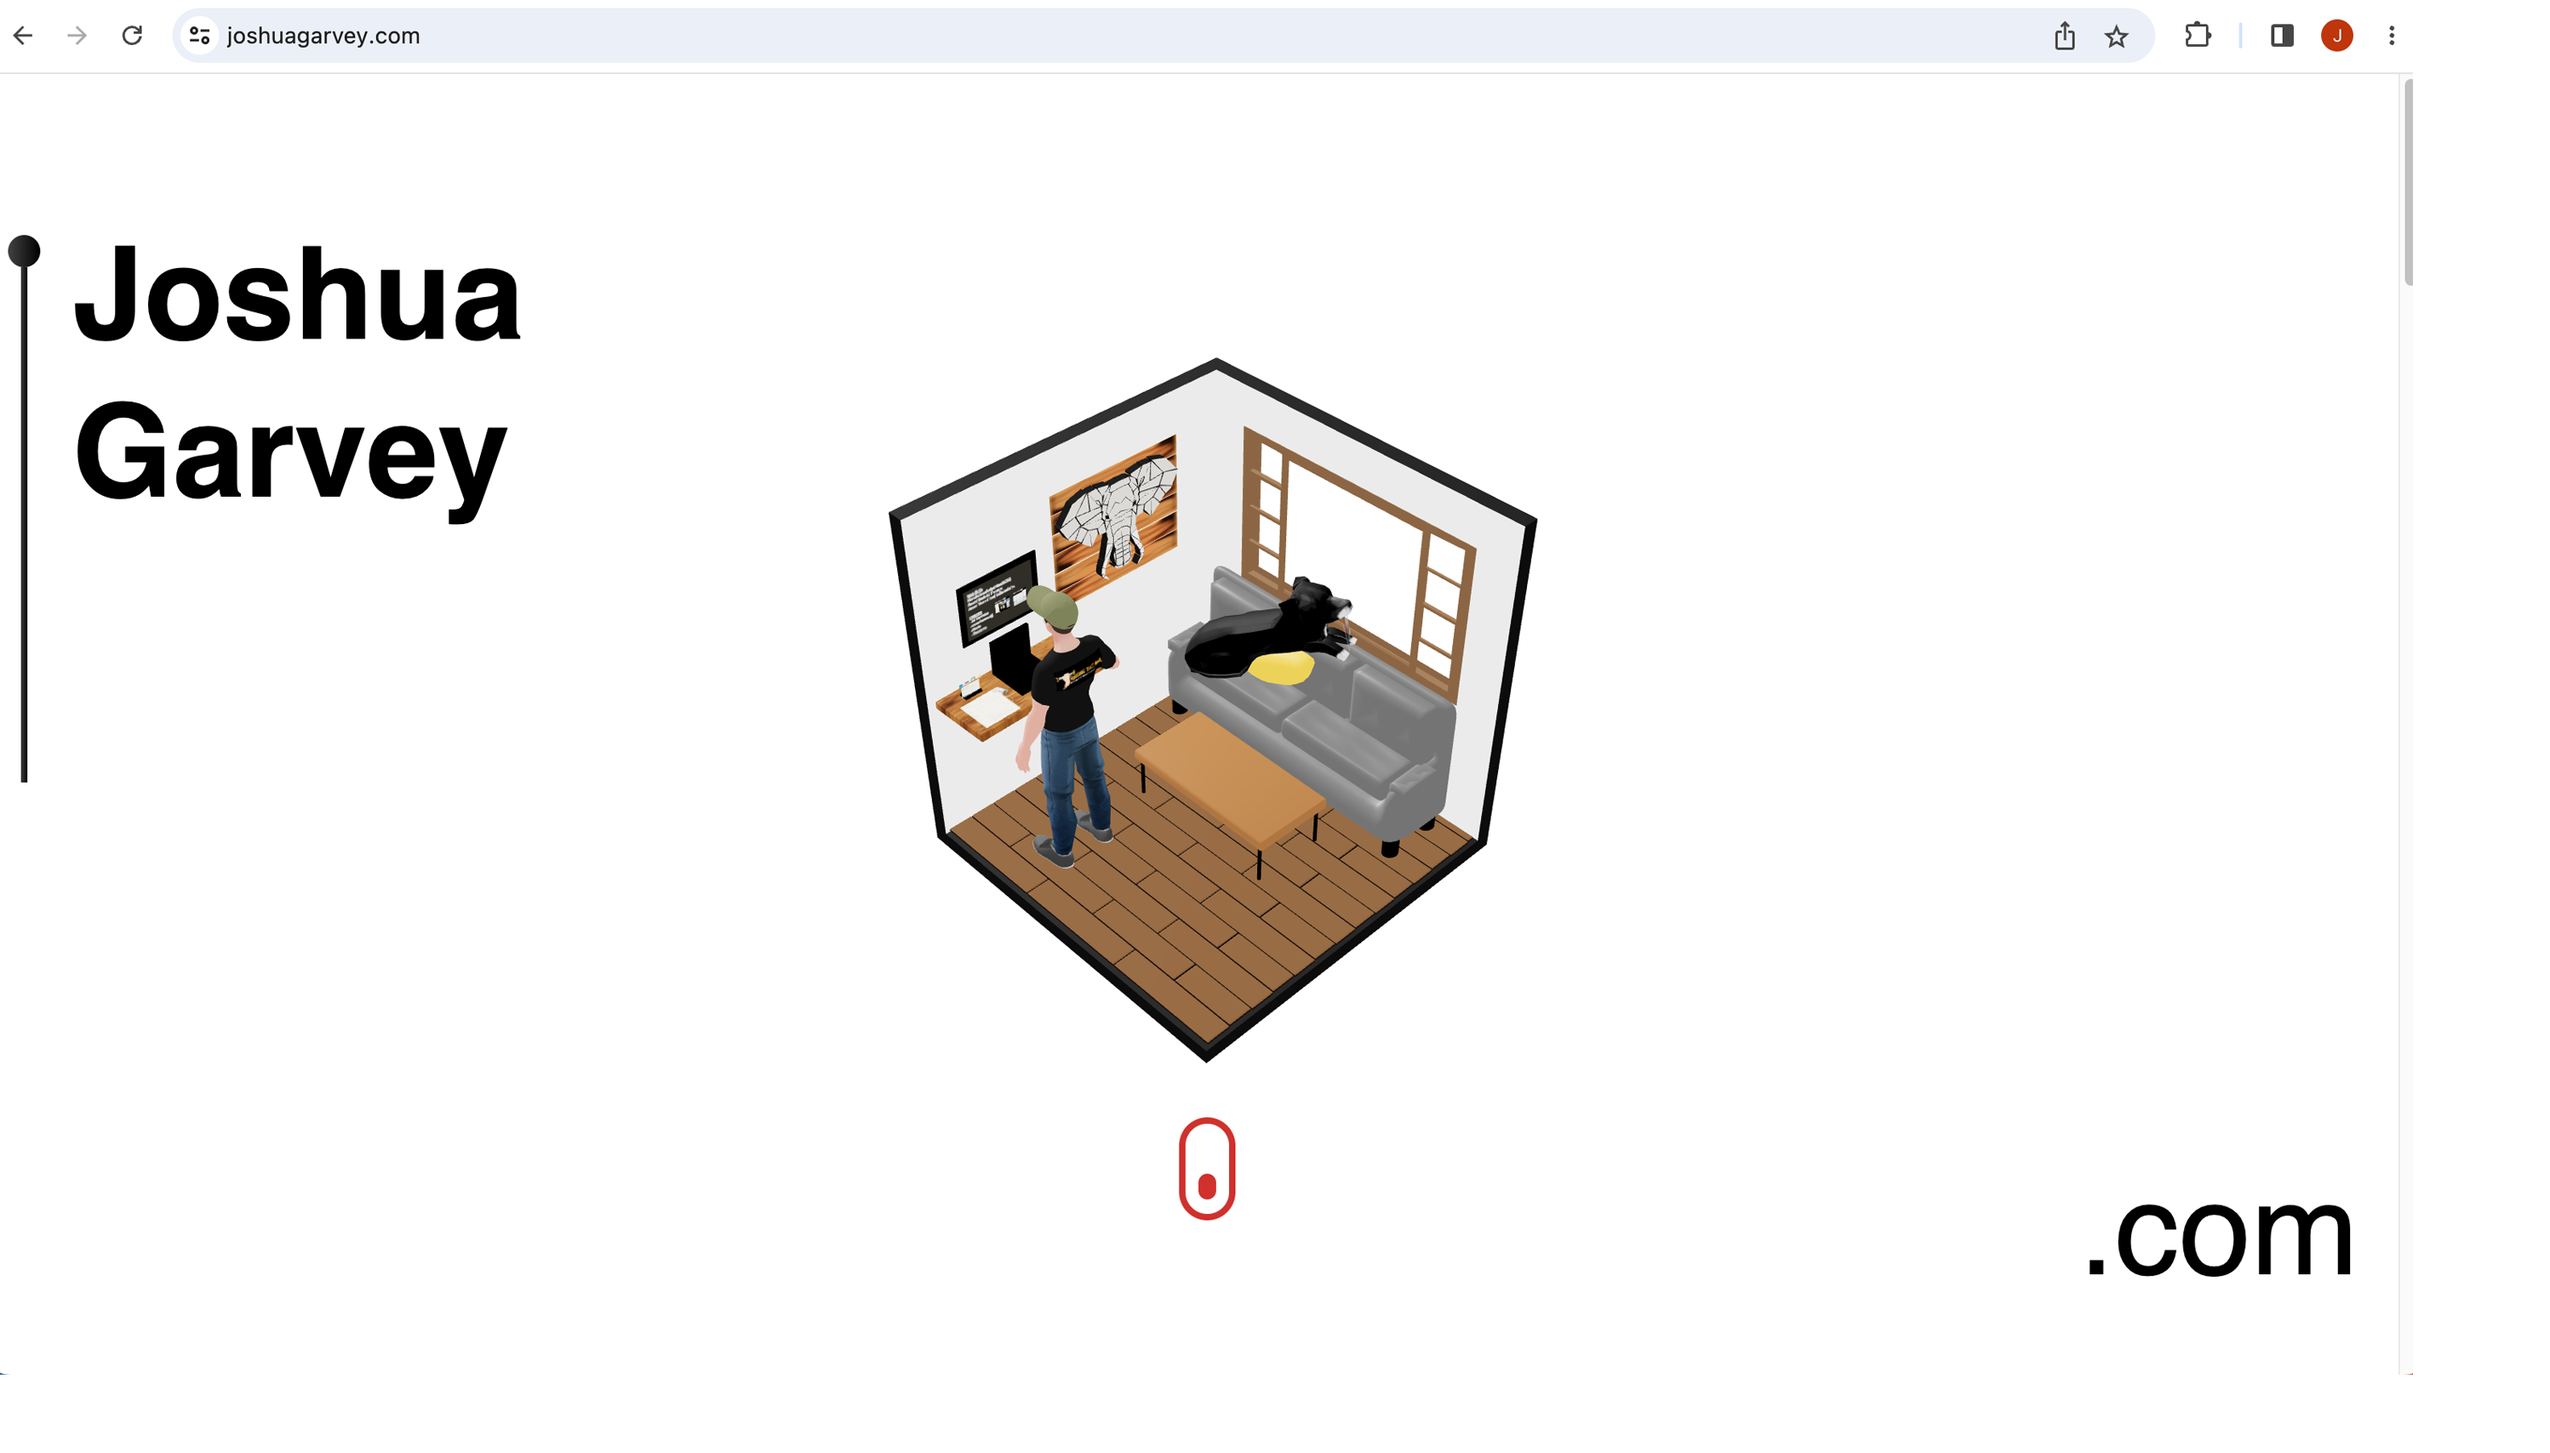
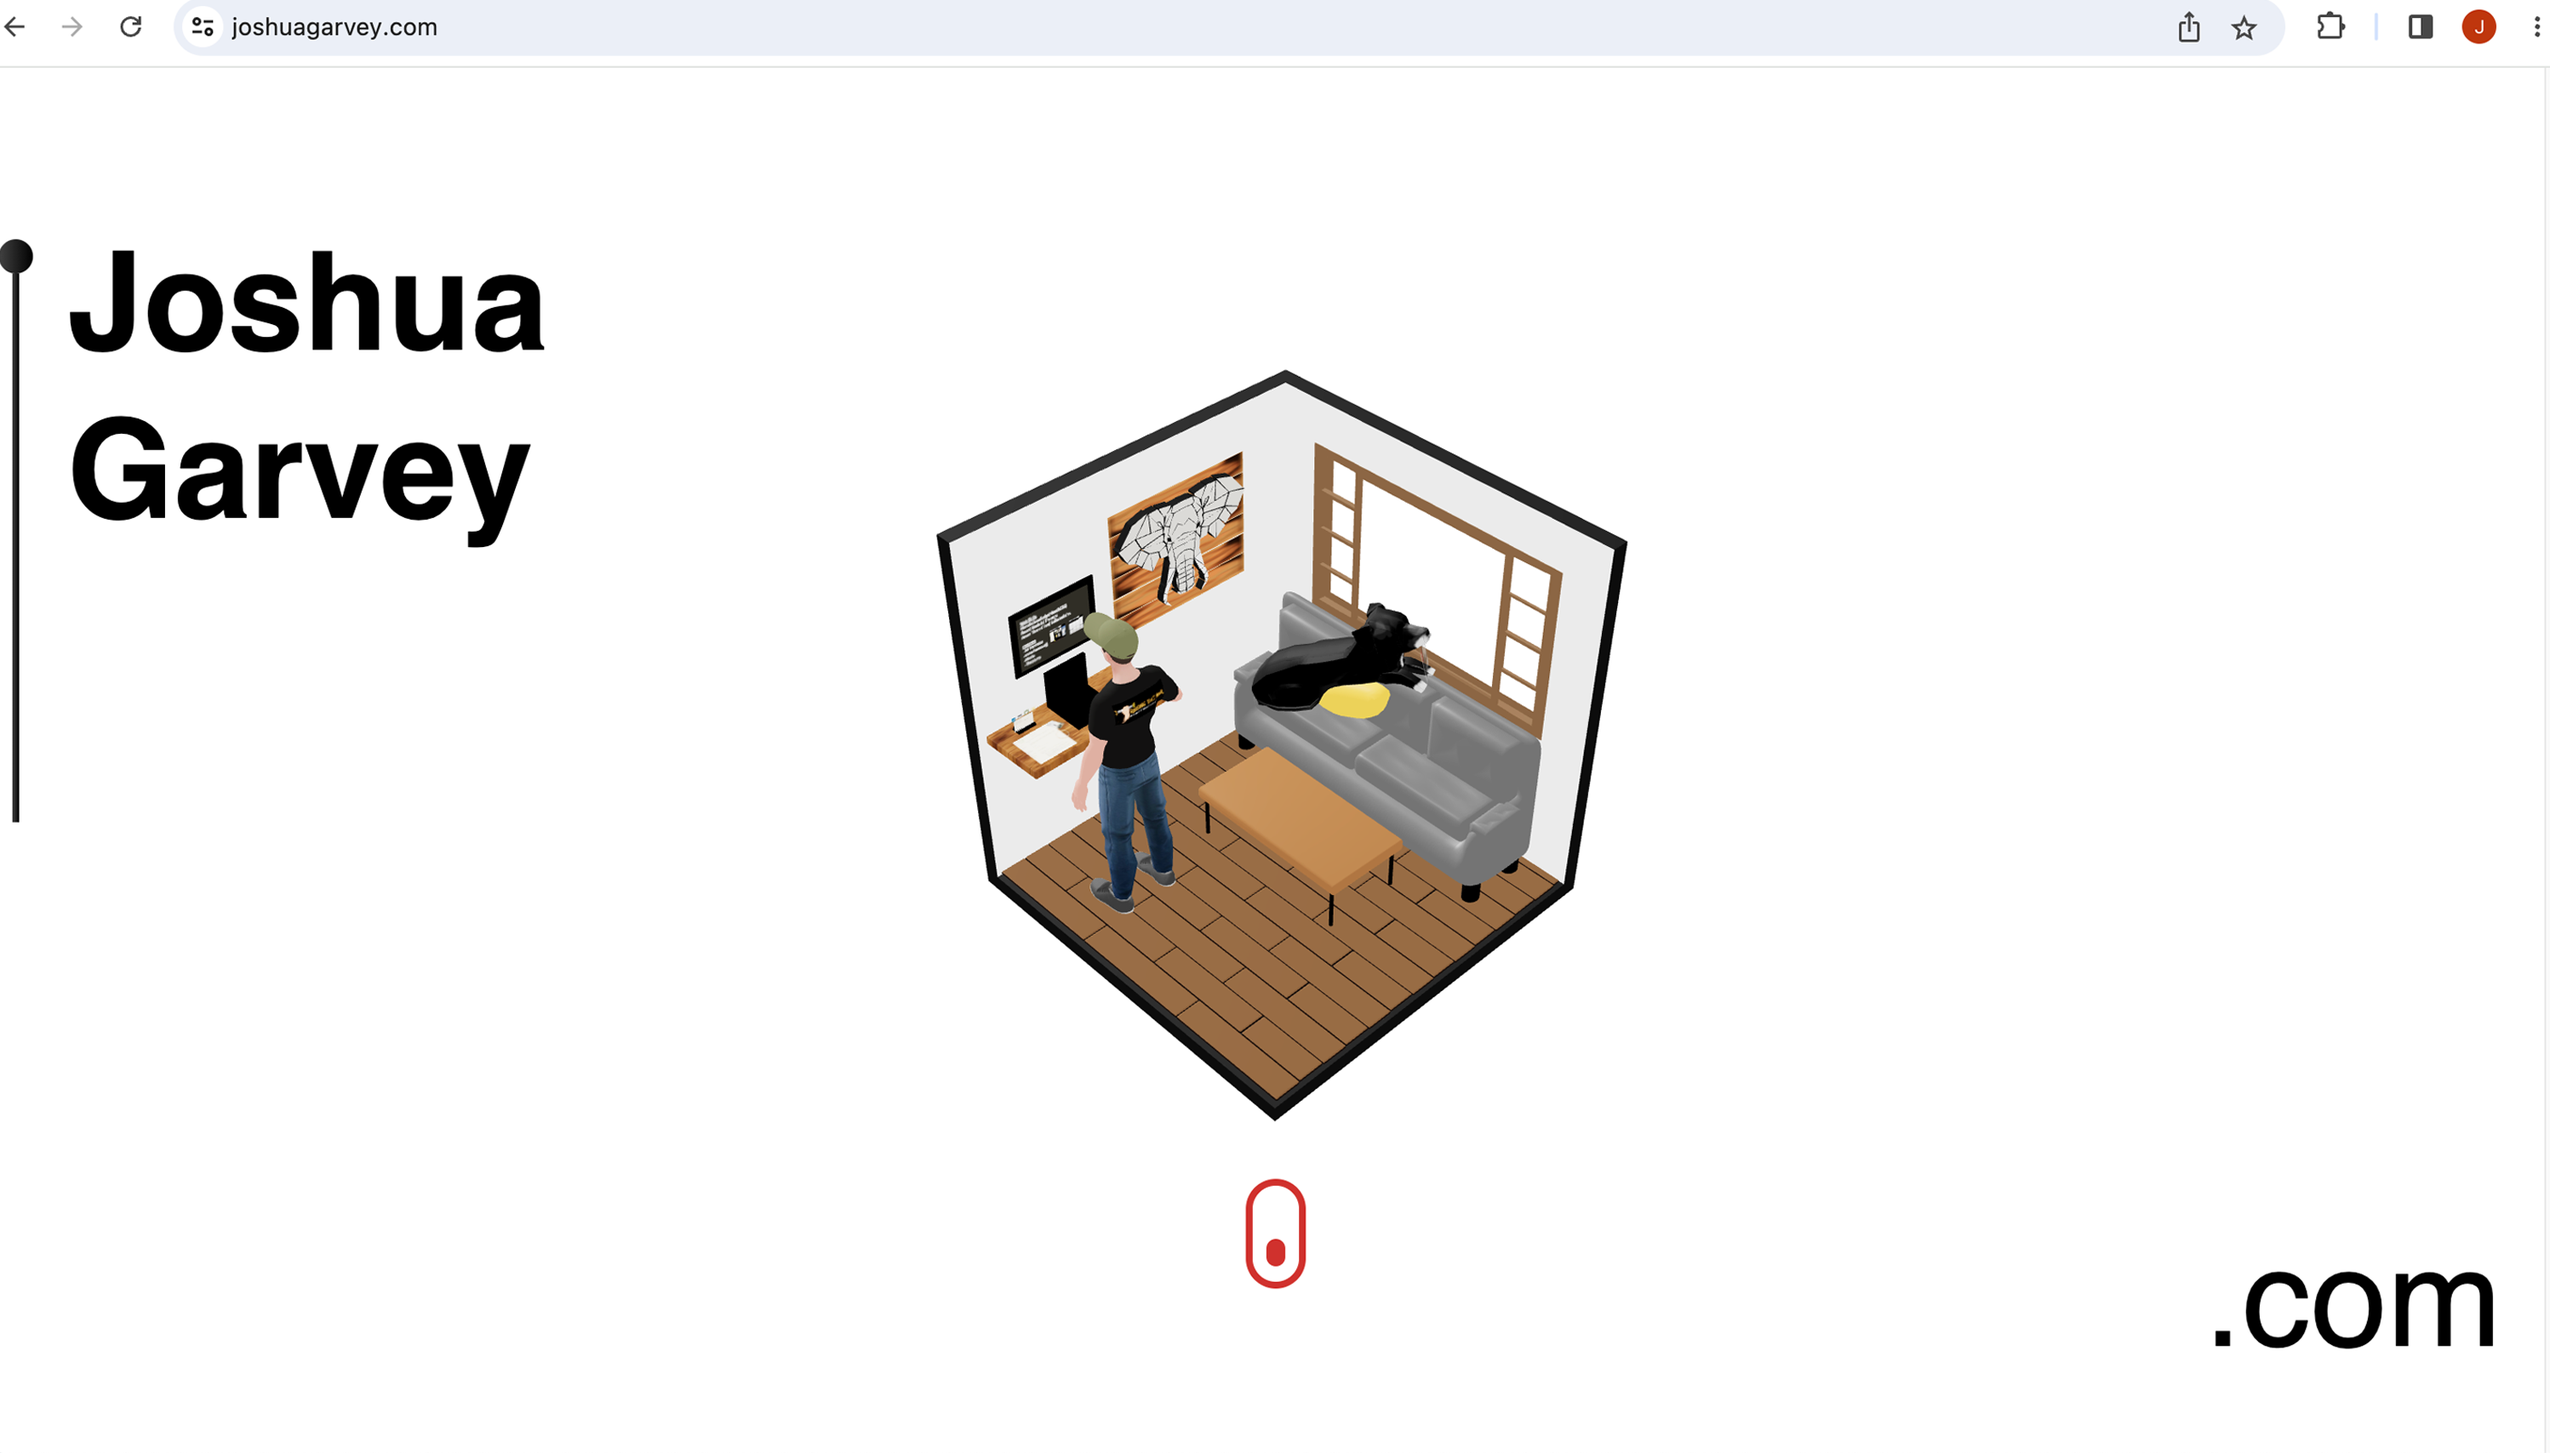
sun

diff --git a/src/components/Works.jsx b/src/components/Works.jsx
@@ -9,7 +9,7 @@ import { SectionWrapper } from "../hoc";
 import { projects } from "../constants";
 import { fadeIn, textVariant } from "../utils/motion";
 
-const ProjectCard = ({ index, name, description, tags, image, source_code_link }) => {
+const ProjectCard = ({ index, name, preview, description, tags, image, source_code_link }) => {
 	return (
 		<motion.div variants={fadeIn("up", "spring", index * 0.5, 0.75)}>
 			<Tilt
@@ -21,10 +21,13 @@ const ProjectCard = ({ index, name, description, tags, image, source_code_link }
 				className="bg-[#000000] p-5 rounded-2x1 sm:w-[360px] w-full"
 			>
 				<div className="relative w-full h-[230px]">
-					<div className="mt-5">
-						<h3 className="text-white font-bold text-[24px]">{name}</h3>
+					<div className="mt-3">
+						<h3 className="text-white font-bold text-[26px]">{name}</h3>
+						<p className="mt-4 ml-4 text-secondaryred text-[16px]">{preview}</p>
 					</div>
-					<img src={image} alt={name} className="w-full h-full object-scale-down rounded-2xl" />
+					<div>
+						<img src={image} alt={name} className="w-full h-full object-scale-down rounded-2xl border-solid border-secondaryred border-4 mt-6" />
+					</div>
 
 					<div className="absolute inset-0 flex justify-end m-3 card-img_hover">
 						<div onClick={() => window.open(source_code_link, "_blank")} className="black-gradient w-10 h-10 rounded-full flex justify-center items-center cursor-pointer">
@@ -32,8 +35,8 @@ const ProjectCard = ({ index, name, description, tags, image, source_code_link }
 						</div>
 					</div>
 				</div>
-				<div className="mt-5">
-					<p className="mt-2 text-secondary text-[14px]">{description}</p>
+				<div className="mt-20">
+					<p className="mt-4 text-secondary text-[14px]">{description}</p>
 				</div>
 				<div className="mt-4 flex flex-wrap gap-2">
 					{tags.map((tag) => (
@@ -50,10 +53,12 @@ const ProjectCard = ({ index, name, description, tags, image, source_code_link }
 const Works = () => {
 	return (
 		<>
-			<motion.div variants={textVariant()}>
-				{/* <p className={styles.sectionSubText}>My Projects</p> */}
-				<h2 className={styles.sectionHeadText}>Projects.</h2>
-			</motion.div>
+			<div className="mt-0">
+				<motion.div variants={textVariant()}>
+					{/* <p className={styles.sectionSubText}>My Projects</p> */}
+					<h2 className={styles.sectionHeadText}>Projects.</h2>
+				</motion.div>
+			</div>
 
 			{/* <div className="w-full flex">
 				<motion.p variants={fadeIn("", "", 0.1, 1)} className="mt-3 text-secondary text-[17px] max-w-3xl leading-[30px]">
@@ -62,7 +67,7 @@ const Works = () => {
 				</motion.p>
 			</div> */}
 
-			<div className="mt-20 flex flex-wrap gap-7">
+			<div className="mt-10 flex flex-wrap gap-7">
 				{projects.map((project, index) => (
 					<ProjectCard key={`project-${index}`} index={index} {...project} />
 				))}

diff --git a/src/constants/index.js b/src/constants/index.js
@@ -158,6 +158,7 @@ export const navLinks = [
 const projects = [
 	{
 		name: "JoshuaGarvey.com",
+		preview: "//Homebase for my internet presense",
 		description: "A 3D immersive scene where a camera is created and follows linear curves when user scrolls down. Wanted a simple design similar to a business card that was the home base to my contact information while also adding a complex user experience to demonstrate capibalities with web development",
 		tags: [
 			{
@@ -174,15 +175,16 @@ const projects = [
 			},
 		],
 		image: joshgarvey1,
-		source_code_link: "https://github.com/",
+		source_code_link: "https://github.com/Jgar514/JoshandEllie/blob/main/README.md",
 	},
 	{
-		name: "Mendix",
+		name: "removeSnow()",
+		preview: "//Snow Plow Company software",
 		description: "Web application that enables users to search for job openings, view estimated salary ranges for positions, and locate available jobs based on their current location.",
 		tags: [
 			{
 				name: "react",
-				color: "blue-text-gradient",
+				color: "white",
 			},
 			{
 				name: "restapi",
@@ -194,10 +196,11 @@ const projects = [
 			},
 		],
 		image: mendix,
-		source_code_link: "https://github.com/",
+		source_code_link: "https://github.com/Jgar514/removeSnow",
 	},
 	{
 		name: "MODA",
+		preview: "//Mom and Dad software",
 		description: "A dual theme enterprise software application for parents to stay on top of raising their kids. ",
 		tags: [
 			{

diff --git a/src/components/Hero.jsx b/src/components/Hero.jsx
@@ -29,7 +29,7 @@ const Hero = () => {
 			{/* </div> */}
 			<div className="absolute xs:bottom-10 bottom-10 w-full flex justify-center items-center">
 				<a href="#about">
-					<div className="w-[35px] h-[64px] rounded-3xl border-4 border-secondary flex justify-center items-start p-2">
+					<div className="w-[35px] h-[64px] rounded-3xl border-4 border-white flex justify-center items-start p-2">
 						<motion.div
 							animate={{
 								y: [0, 24, 0],
@@ -39,7 +39,7 @@ const Hero = () => {
 								repeat: Infinity,
 								repeatType: "loop",
 							}}
-							className="w-3 h-3 rounded-full bg-secondary mb-1"
+							className="w-3 h-3 rounded-full bg-white mb-1"
 						/>
 					</div>
 				</a>

diff --git a/src/components/Navbar.jsx b/src/components/Navbar.jsx
@@ -3,7 +3,7 @@ import { Link } from "react-router-dom";
 
 import { styles } from "../styles";
 import { navLinks } from "../constants";
-import { logo, menu, close } from "../assets";
+import { logo1, menu, close } from "../assets";
 import { linkClasses } from "@mui/material";
 
 const Navbar = () => {
@@ -21,7 +21,7 @@ const Navbar = () => {
 						window.scrollTo(0, 0);
 					}}
 				>
-					<img src={logo} alt="logo" className="w-9 h-9 object-fill" />
+					<img src={logo1} alt="logo" className="w-9 h-9 object-fill" />
 					<p className="text-white text-[18px]font-bold cursor-pointer flex">
 						Joshua &nbsp;
 						<span className="sm:block hidden">| JoshuaGarvey.com</span>

diff --git a/src/assets/index.js b/src/assets/index.js
@@ -1,4 +1,4 @@
-import logo from "./logo.png";
+import logo1 from "./logo1.png";
 // import backend from "./backend.png";
 // import creator from "./creator.png";
 // import mobile from "./mobile.png";
@@ -33,4 +33,4 @@ import mendix from "./mendix.png";
 //import tripguide from "./tripguide.png.icloud";
 
 // export { logo, backend, creator, mobile, web, github, menu, close, css, docker, figma, git, html, javascript, mongodb, nodejs, reactjs, redux, tailwind, typescript, threejs, meta, shopify, starbucks, tesla, joshgarvey1, jobit };
-export { logo, github, joshgarvey1, close, menu, mendix, moda };
+export { logo1, github, joshgarvey1, close, menu, mendix, moda };

diff --git a/index.html b/index.html
@@ -2,7 +2,7 @@
 <html lang="en">
 	<head>
 		<meta charset="UTF-8" />
-		<link rel="icon" type="png" href="/logo.png" />
+		<link rel="icon" type="png" href="/jgfavicon.png" />
 		<meta name="viewport" content="width=device-width, initial-scale=1.0" />
 		<title>Joshua | Portfolio</title>
 	</head>

diff --git a/tailwind.config.js b/tailwind.config.js
@@ -7,6 +7,8 @@ module.exports = {
 			colors: {
 				primary: "#050816",
 				secondary: "#aaa6c3",
+				secondaryred: "#D42920",
+				secondarytan: "#FBF3D9",
 				tertiary: "#151030",
 				"black-100": "#100d25",
 				"black-200": "#090325",

diff --git a/src/index.css b/src/index.css
@@ -14,8 +14,8 @@
 }
 
 .hash-span {
-	margin-top: -100px;
-	padding-bottom: 100px;
+	margin-top: -70px;
+	padding-bottom: 70px;
 	display: block;
 }
 
